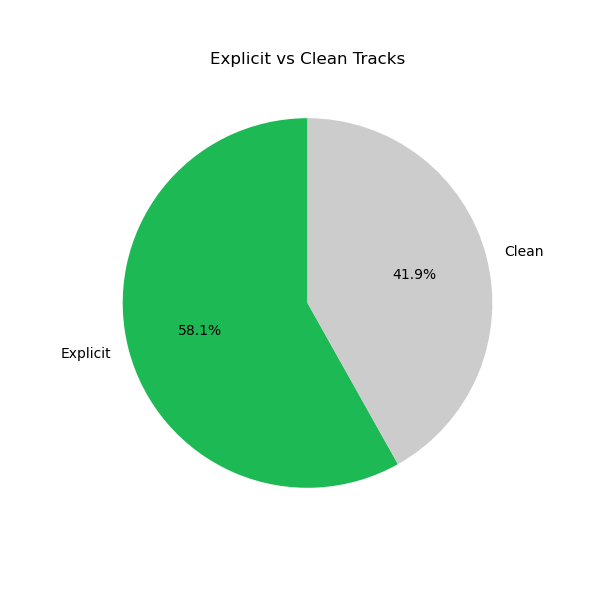
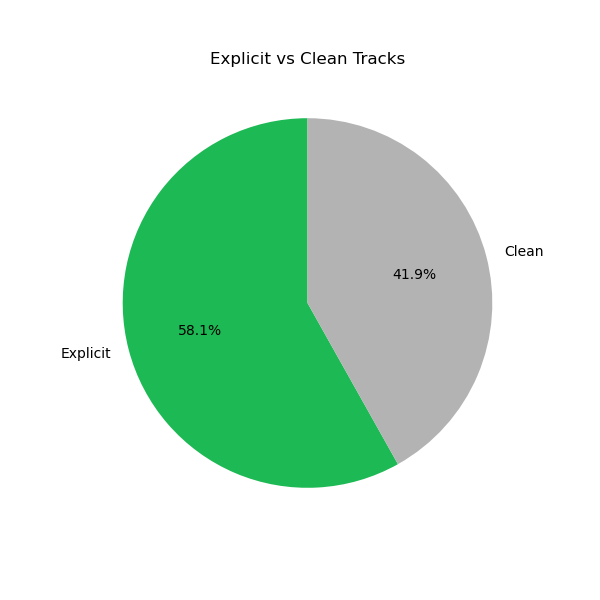
improve visualisations

Changed region(s): [[0.51, 0.18, 0.84, 0.78]]

diff --git a/playlist_analyser.py b/playlist_analyser.py
@@ -23,7 +23,7 @@ sp = spotipy.Spotify(auth_manager=SpotifyOAuth(
     client_secret=os.getenv("SPOTIPY_CLIENT_SECRET"),
     redirect_uri=os.getenv("SPOTIPY_REDIRECT_URI"),
     scope="playlist-read-private",
-    cache_path=".spotifycache"
+    cache_path=".cache"
 ))
 # Check it worked
 print("Authenticated as:", sp.current_user()['display_name'])
@@ -108,6 +108,10 @@ elements = []
 
 # --- Visualise ---
 
+spoticolor1 = "#1DB954"
+spoticolor2 = "#212121"
+spoticolor3 = "#B3B3B3"
+
 # Title
 elements.append(Paragraph("Spotify Playlist Report - " + plname, styles["Title"]))
 elements.append(Spacer(1, 20))
@@ -150,18 +154,19 @@ plt.pie(
     explicit_counts,
     labels=['Explicit', 'Clean'],
     autopct='%1.1f%%',
-    colors=['#1DB954', '#CCCCCC'],
+    colors=[spoticolor1, spoticolor3],
     startangle=90
 )
 plt.title("Explicit vs Clean Tracks")
 plt.savefig(pie_path)
 plt.close()
-elements.append(Image(pie_path, width=400, height=300))
+elements.append(Image(pie_path, width=400, height=400))
+elements.append(Spacer(1, 30))
 
 
 # Popularity
 plt.figure(figsize=(6,4))
-df["popularity"].plot(kind="hist", bins=10, edgecolor="black")
+df["popularity"].plot(kind="hist", bins=10, edgecolor=spoticolor2, color=spoticolor1)
 plt.title("Track Popularity Distribution")
 plt.xlabel("Popularity")
 plt.ylabel("Count")
@@ -169,10 +174,11 @@ plt.tight_layout()
 plt.savefig(popularity_path)
 plt.close()
 elements.append(Image(popularity_path, width=400, height=300))
+elements.append(Spacer(1, 30))
 
 # Duration
 plt.figure(figsize=(10,5))
-plt.plot(df["position"], df["duration_min"], marker='o', linestyle='-', color='#1DB954')
+plt.plot(df["position"], df["duration_min"], marker='o', linestyle='-', color=spoticolor1)
 plt.title("Track Duration Across Playlist")
 plt.xlabel("Track Position")
 plt.ylabel("Duration (minutes)")
@@ -180,7 +186,8 @@ plt.grid(True)
 plt.tight_layout()
 plt.savefig(duration_path)
 plt.close()
-elements.append(Image(duration_path, width=400, height=300))
+elements.append(Image(duration_path, width=480, height=300))
+elements.append(Spacer(1, 30))
 
 
 # Top artists
@@ -191,7 +198,7 @@ artist_counts = df['artist'].value_counts()
 top_artists = artist_counts.head(5)
 
 plt.figure(figsize=(8,5))
-top_artists.plot(kind="bar", color="#1DB954")
+top_artists.plot(kind="bar", color=spoticolor1)
 plt.title("Top Artists in Playlist")
 plt.xlabel("Artist")
 plt.ylabel("Number of Tracks")
@@ -199,7 +206,8 @@ plt.xticks(rotation=45, ha="right")
 plt.tight_layout()
 plt.savefig(top_artists_path)
 plt.close()
-elements.append(Image(top_artists_path, width=400, height=300))
+elements.append(Image(top_artists_path, width=450, height=300))
+elements.append(Spacer(1, 30))
 
 
 # Top albums
@@ -210,7 +218,7 @@ album_counts = df['album'].value_counts()
 top_albums = album_counts.head(5)
 
 plt.figure(figsize=(8,5))
-top_albums.plot(kind="bar", color="#1DB954")
+top_albums.plot(kind="bar", color=spoticolor1)
 plt.title("Top Albums in Playlist")
 plt.xlabel("Album")
 plt.ylabel("Number of Tracks")
@@ -218,7 +226,8 @@ plt.xticks(rotation=45, ha="right")
 plt.tight_layout()
 plt.savefig(top_albums_path)
 plt.close()
-elements.append(Image(top_albums_path, width=400, height=300))
+elements.append(Image(top_albums_path, width=450, height=300))
+
 
 
 # Build PDF
